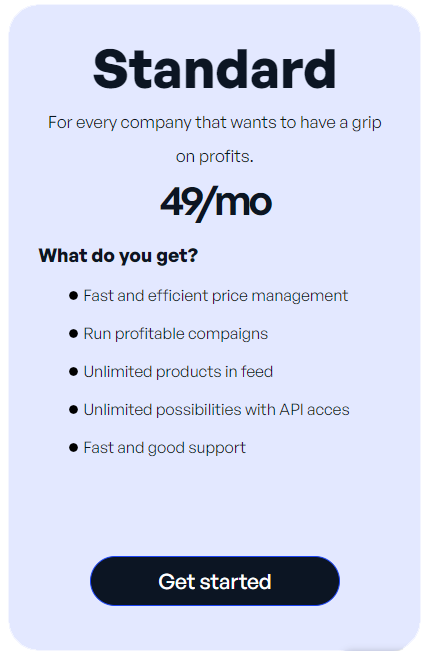
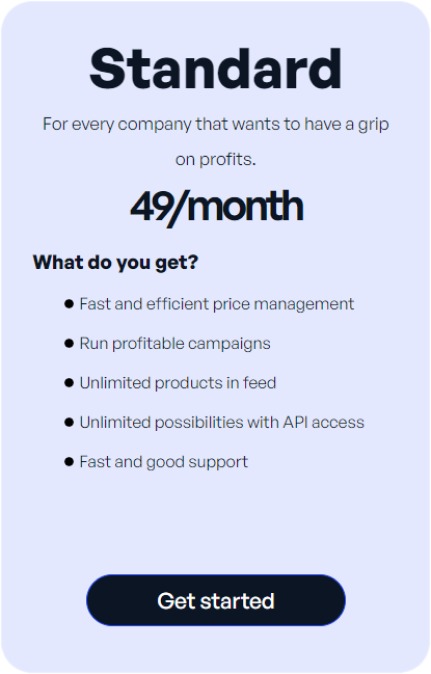
Made changes to merge PR !1

diff --git a/docusaurus.config.js b/docusaurus.config.js
@@ -70,6 +70,10 @@ const darkCodeTheme = require('prism-react-renderer/themes/dracula');
                                 label: 'Integrations',
                                 to: '/docs/Integrations/Channable',
                             },
+                            {
+                                label: 'Pricing',
+                                to: '/docs/Pricing/Prycing%20free%20trial',
+                            },
                         ],
                     },
                     {
@@ -99,7 +103,7 @@ const darkCodeTheme = require('prism-react-renderer/themes/dracula');
                         ],
                     },
                 ],
-                copyright: `© Copyright ${new Date().getFullYear()} Prycing.`,
+                copyright: `© Copyright ${new Date().getFullYear()} – Prycing`,
             },
             prism: {
                 theme: lightCodeTheme,

diff --git a/docs/Pricing/Prycing professional.md b/docs/Pricing/Prycing professional.md
@@ -2,13 +2,13 @@
 sidebar_position: 3
 ---
 
-# Prycing proffesional
+# Prycing professional
 
 We have a couple of packages available for you to use, the professional package is the most advanced version of Prycing.
 This package is perfect for businesses that want to get the most out of their data and integrate it with other tools.
 This package is fully decked out with features as Dynamic pricing, Repricer and API access.
 
-![](/img/proffesional.png)
+![](/img/professional.png)
 
 ## What can this package do for you?
 
@@ -20,6 +20,6 @@ dynamic pricing and repricer will help you to be the most profitable you can be.
 - **Everything in the standard package**: All the features from the standard package are included in this package.
 - **1 hour per month of integration support**: Get help with integrating your data with other tools.
 - **Insights to your competitors**: Get insights into your competitors and see how you can out manoeuvre them.
-- **Dynamic pricing**: placeholder
+- **Dynamic pricing**:  Set rules to increase or decrease the prices based on the stock you have or the demand of the product.
 - **Have 20.000 products scraped with AI**: Get insights into your margins and which products are generating the most income.
-- **Repricer**: placeholder
+- **Repricer**: Enable the power of having insights of your competitors and take it to a new level.

diff --git a/docs/Pricing/Prycing standard.md b/docs/Pricing/Prycing standard.md
@@ -24,6 +24,6 @@ their margins and see which products are generating positive income and which ar
 - **Fast and efficient price management**: Easily manage your prices and see how they affect your margins.
 - **Run profitable campaigns**: See which products generate the most income and run profitable campaigns.
 - **Unlimited products in feed**: Add as many products as you want to your feed.
-- **Unlimited possibilities with API acces**: Use our API to get the most out of your data and integrate it with other
+- **Unlimited possibilities with API access**: Use our API to get the most out of your data and integrate it with other
   tools.
-- **Fast and efficient support**: Get help when you need it and get the most out of your data.
+- **Fast and good support**: Get help when you need it and get the most out of your data.

diff --git a/docs/Pricing/Prycing free trial.md b/docs/Pricing/Prycing free trial.md
@@ -19,4 +19,3 @@ wich products are generating +income and which are not. You can easily manage yo
 
 - **Free support from our sales**: Get help when you need it and get the most out of your data.
 - **1 hour per month of integration support**: Get help with integrating your data with other tools.
-- **Insights to your competitors**: Get insights into your competitors and see how you can out manoeuvre them.
